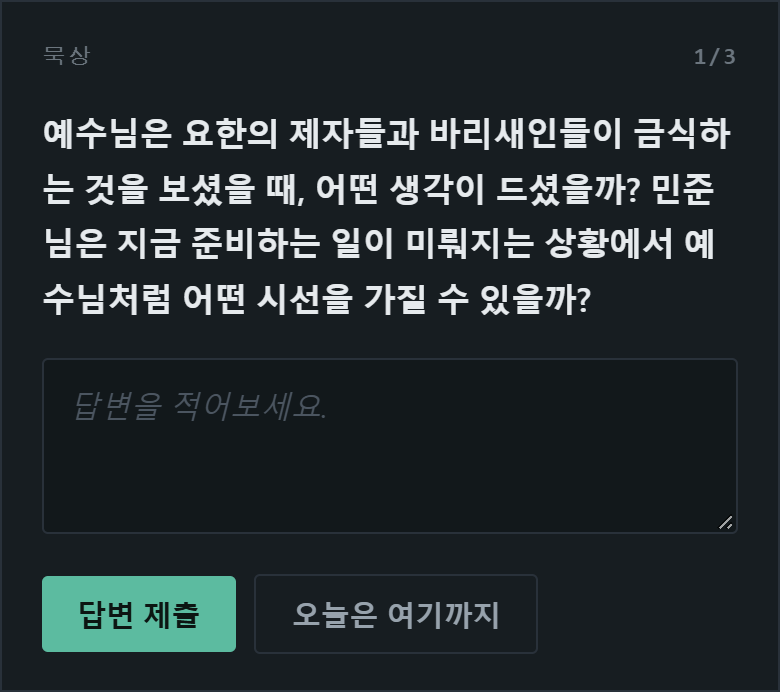
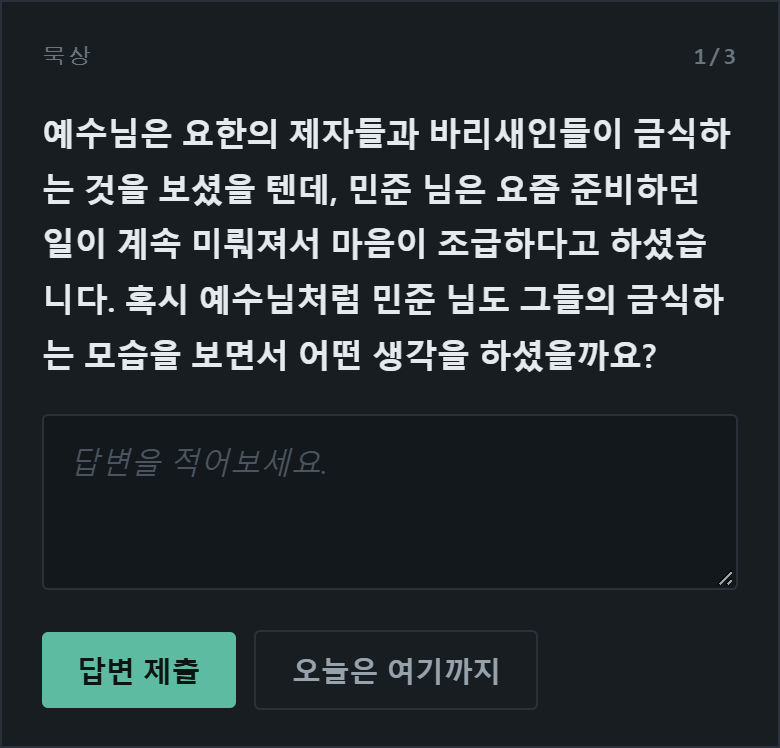
content: re-shoot 이음 after fixing the two bugs behind the screenshots
The `&#x27;` was not a rendering bug — the Bible database had HTML
entities baked in from ingest (4,368 rows across 8 columns, all of them
the same apostrophe). The 반말 was not a missing profile either; the
question prompt only said "follow the tone block", so the model kept the
formal register in the body and dropped it at the sentence ending.

Both fixed on the server, then the three screens re-shot. Captions gain
notes like the other projects.

diff --git a/src/content/projects.ts b/src/content/projects.ts
@@ -72,14 +72,20 @@ export const projects: Project[] = [
       {
         src: "/figures/ieum-diary.png",
         alt: "이음 일기 작성 화면. 하루를 적는 입력창 아래에 '말씀 찾기' 버튼이 있다.",
-        caption: "하루를 적는 화면 — 검색어가 아니라 그날의 일을 그대로 씁니다.",
+        caption:
+          "하루를 적는 화면 — 검색어가 아니라 그날의 일을 그대로 씁니다.",
+        note:
+          "검색창을 두지 않은 것이 설계입니다. 사용자가 자기 상황을 이미 검색어로 바꿀 수 있다면 앱이 할 일이 없고, 못 바꾸기 때문에 성경을 안 펴게 되거든요. 그 변환을 앱이 맡습니다.",
         width: 780,
         height: 486,
       },
       {
         src: "/figures/ieum-passage.png",
-        alt: "일기를 제출하자 마가복음 2장 18-22절이 절 단위로 줄바꿈되어 표시된 화면.",
-        caption: "찾아온 말씀 — 본문은 DB에서 조회해 절 단위로 보여줍니다.",
+        alt: "일기를 제출하자 마가복음 2장 18-22절이 절 단위로 줄바꿈되어 표시된 화면. 아래에 다른 후보 3개를 볼 수 있는 링크와 묵상 시작 버튼이 있다.",
+        caption:
+          "찾아온 말씀 — 본문은 DB에서 조회해 절 단위로 보여줍니다.",
+        note:
+          "일정이 미뤄져 조급하다는 기록에 '새 포도주는 새 부대에' 본문이 왔습니다. 단어가 겹쳐서가 아니라 때가 아직 아니라는 상황이 겹쳐서 걸린 결과입니다. 본문은 예외 없이 DB 조회로만 가져오기 때문에 모델이 구절을 지어낼 수 없고, 아래에 고르지 않은 후보 3개도 함께 열립니다.",
         width: 780,
         height: 1392,
       },
@@ -88,8 +94,10 @@ export const projects: Project[] = [
         alt: "묵상 1/3 화면. 본문과 사용자가 쓴 상황을 함께 엮은 질문이 제시되고 답변 입력창이 있다.",
         caption:
           "묵상 질문 — 답을 주지 않고, 본문과 그날의 상황을 엮어 되묻습니다.",
+        note:
+          "본문 속 장면과 사용자가 쓴 '계속 미뤄져서 조급하다'를 한 문장에 붙여 되묻습니다. 해석을 내려주면 사용자가 생각할 자리가 없어지므로, 생성 모델의 권한을 질문까지로 끊어둔 지점입니다. 세 번에 걸쳐 관찰 · 고백 · 적용 순으로 이어집니다.",
         width: 780,
-        height: 692,
+        height: 748,
       },
     ],
     featured: true,
